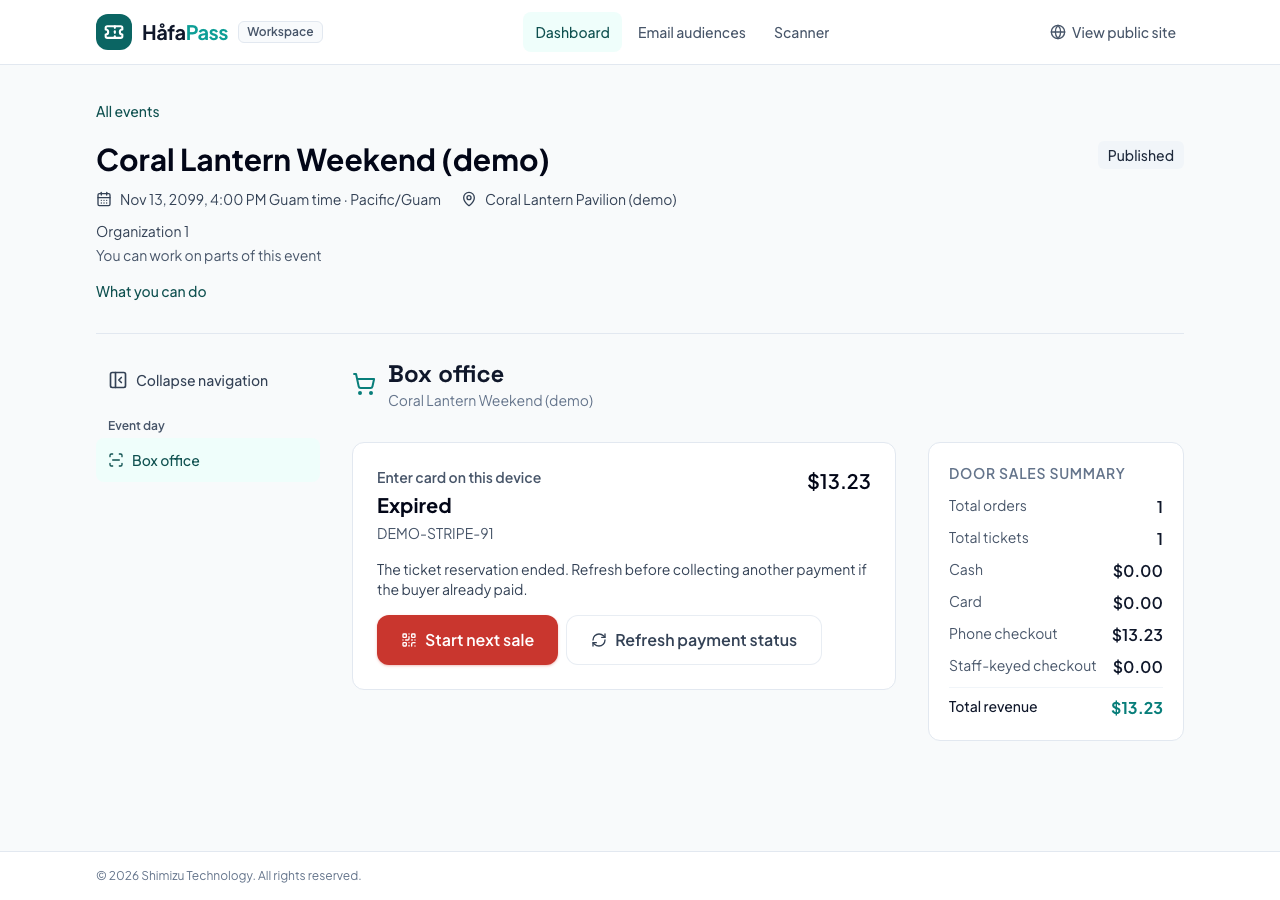
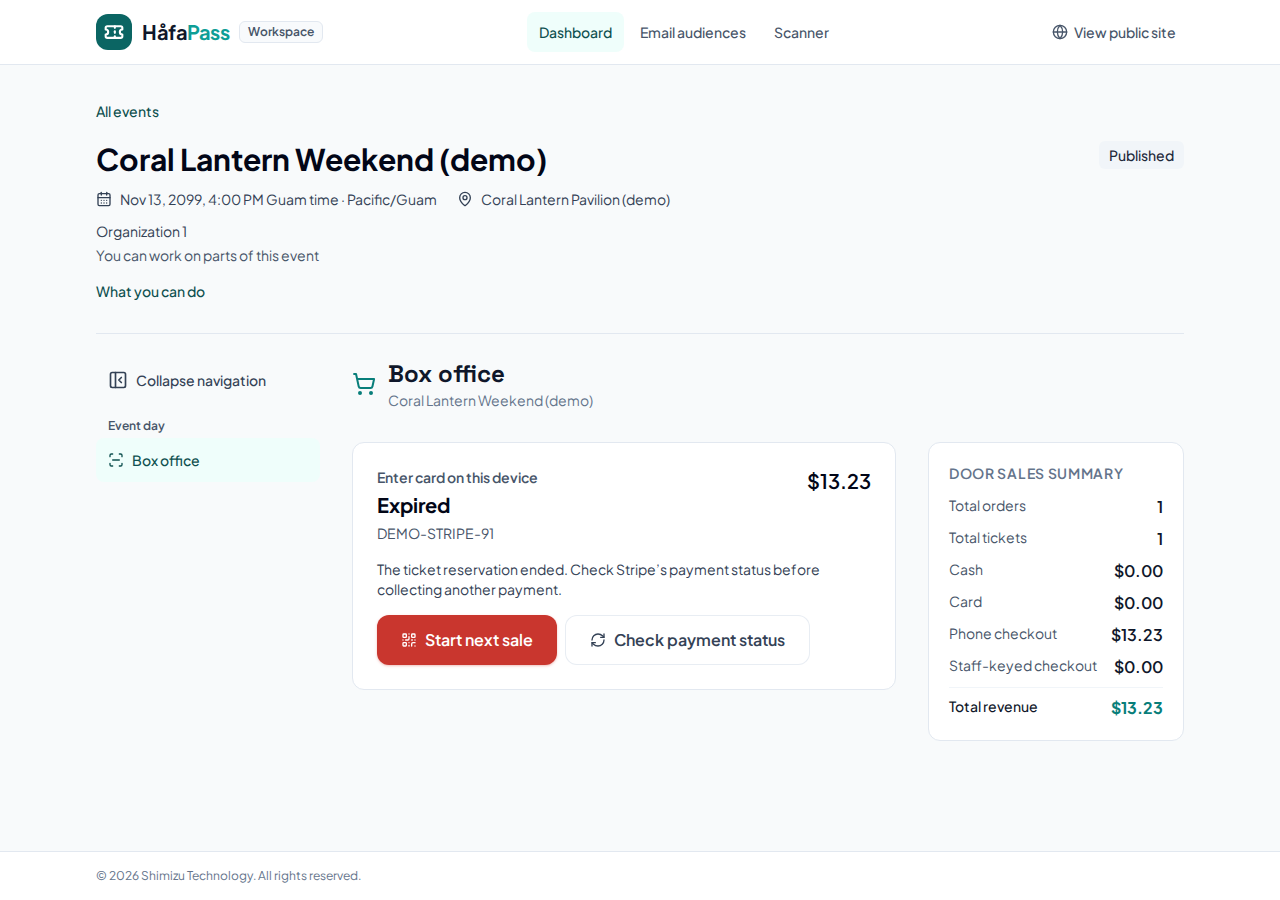
Record box-office confirmation browser evidence

diff --git a/docs/qa/w4b/README.md b/docs/qa/w4b/README.md
@@ -8,10 +8,13 @@ Chromium ran the staff journey at 390 and 1280 px with fictional API fixtures. T
 | Open card checkouts after a lost tab | [Phone](open-checkouts-390.png) | [Desktop](open-checkouts-1280.png) |
 | Waiting, pay on buyer’s phone | [Phone](waiting-phone-390.png) | [Desktop](waiting-phone-1280.png) |
 | Paid, tickets ready | [Phone](paid-390.png) | [Desktop](paid-1280.png) |
+| Stripe shows payment, signed confirmation still pending | [Phone](confirming-390.png) | [Desktop](confirming-1280.png) |
 | Failed, same checkout can retry | [Phone](failed-390.png) | [Desktop](failed-1280.png) |
 | Expired | [Phone](expired-390.png) | [Desktop](expired-1280.png) |
 
 The recovery list and paid fixture include unbroken characters, Japanese text, and emoji. The browser verified that every tested payment state and the recovery list fit the viewport horizontally. The payment-link email action was at least 48 px tall.
+
+Round 2 ran in Chromium on the ASUS runner after integrating the cash-print branch. The payment-status check detected a capture after the local reservation expired. The browser kept the confirmation message through a local-status poll and withheld both the admission QR and the next-sale action. It also verified that the cash flow could show, print, and email its reloaded receipt at both widths.
 
 Rails used a dedicated test database, mocked Stripe transport, simulated email, and locally signed webhook fixtures. The backend tests covered last-ticket contention with public checkout, cancellation during Stripe setup, delayed confirmation on both sides of the expiry sweep, an exactly-once refund after a replacement sale, seller and manager permissions, and reconciliation of the series CSV channel rows to the combined totals.
 
